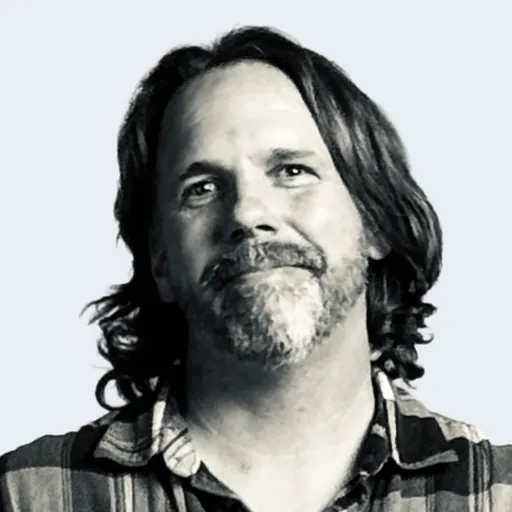
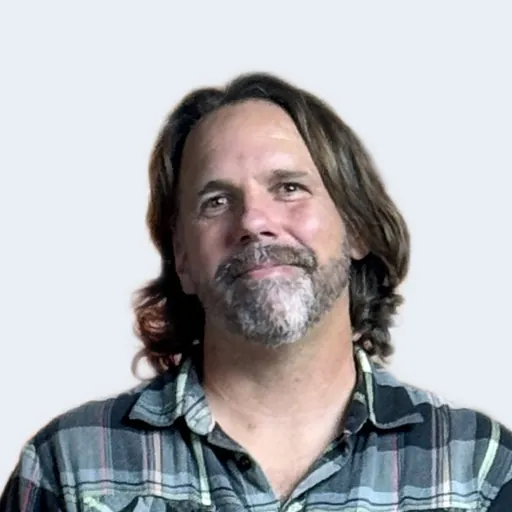
Chris Daniels in Strategy, and Chris Mutter's colour headshot
Both photographs were uploaded by Brendan to the form's Drive folder on
6 October.

- Chris Mutter: a 2993x4032 colour original replaces the 707x624
  near-black-and-white crop from the form, so their tile is colour like
  everyone else's. It cuts out at the shared framing with nothing faded.
- Chris Daniels joins Strategy, third after Jake Maguire and Ann Marie Guzzi,
  with no title or links yet (no form entry); the tile shows the name alone
  until Joan sends them. The 5.1 MB opaque PNG is committed as a quality-95
  JPEG with full-resolution colour.

Neither file carries location data. Who We Are is now 36 tiles, 35 with a
photograph.

index.html's note on the bio tiles also caught up: Leadership's five, not
21 in four groups; "Open link ›", not "Read more ›".

Claude-Session: https://claude.ai/code/session_01XG348wN5ByY34urU5UZMf6

diff --git a/index.html b/index.html
@@ -102,11 +102,13 @@
   .team-grid-3 img, .team-grid-3 > div > div:first-child { margin-bottom: var(--space-4) !important; }
   .team-grid-3 a[aria-label] { width: var(--icon-size); height: var(--icon-size); align-items: center; justify-content: center; flex: 0 0 auto; }
   .team-grid-3 a[aria-label] > * { width: var(--icon-size) !important; height: var(--icon-size) !important; min-width: var(--icon-size) !important; min-height: var(--icon-size) !important; font-size: var(--icon-size) !important; line-height: var(--icon-size) !important; display: block !important; margin: 0 !important; }
-  /* THE BIO TILES. Every card whose person has a bio (21 of them, in all four groups)
-     links to a page of their own at /team/<slug>/, and the whole tile is that link:
+  /* THE BIO TILES. Every card whose person has a bio and whose group shows bios — only
+     Leadership's five, by the roster (linksBio in tools/lib/team.mjs; 21 tiles across
+     four groups until October 2026) — links to a page of their own at /team/<slug>/, and
+     the whole tile is that link:
      photo, name, role and the space between them. One link per person, one tab stop, a target the size of the card.
 
-     The link is the design system's link button, the same "Read more ›" the papers and
+     The link is the design system's link button, the same "Open link ›" the papers and
      every "Learn more ›" on the site use. It was a bare semibold "Read bio" in body ink
      with no underline and no glyph, the only text link on the site that was not the
      system's, and at 64x16 it read as a caption rather than something to click.
@@ -120,7 +122,7 @@
      Raquel's LinkedIn icon is lifted above it, or the overlay would swallow the click.
 
      THE NAME IN THE LINK is a .visually-hidden span, so a screen reader hears "Read bio
-     of Sherry Lachman" instead of four identical "Read bio"s. Not an aria-label: the
+     of Sherry Lachman" instead of five identical "Read bio"s. Not an aria-label: the
      rules just above style every .team-grid-3 a[aria-label] as a 24px icon box (44px on
      a coarse pointer), and an aria-label here would shrink the link into one.
 
@@ -1356,6 +1358,10 @@
               <a href="https://www.linkedin.com/in/amguzzi/" target="_blank" rel="noopener" aria-label="LinkedIn" style="display:flex"><img src="assets/icons/linkedin.svg" alt="" style="width:var(--icon-size);height:var(--icon-size);display:block" width="24" height="24" decoding="async" loading="lazy"></a>
               <a href="https://www.annmarieguzzi.com/" target="_blank" rel="noopener" aria-label="Website" style="display:flex"><x-import component-from-global-scope="AugmentEDDesignSystem_191b99.Icon" name="language"></x-import></a>
             </div>
+          </div>
+          <div data-reveal="" style="opacity:0;transition:opacity var(--transition-fade)">
+            <img src="assets/team/chris-daniels.webp" alt="Chris Daniels" style="aspect-ratio:1/1;width:100%;object-fit:cover;object-position:50% 50%;border-radius:var(--radius-image);margin-bottom:var(--space-6);display:block" width="512" height="512" decoding="async" loading="lazy">
+            <h3 style="font-size:var(--text-h5);line-height:var(--text-h5-line-height);letter-spacing:var(--heading-letter-spacing);font-weight:var(--font-weight-bold);margin:0 0 var(--space-2)">Chris Daniels</h3>
           </div>
         <!-- /team tiles: strategy --></div>
       </div>
